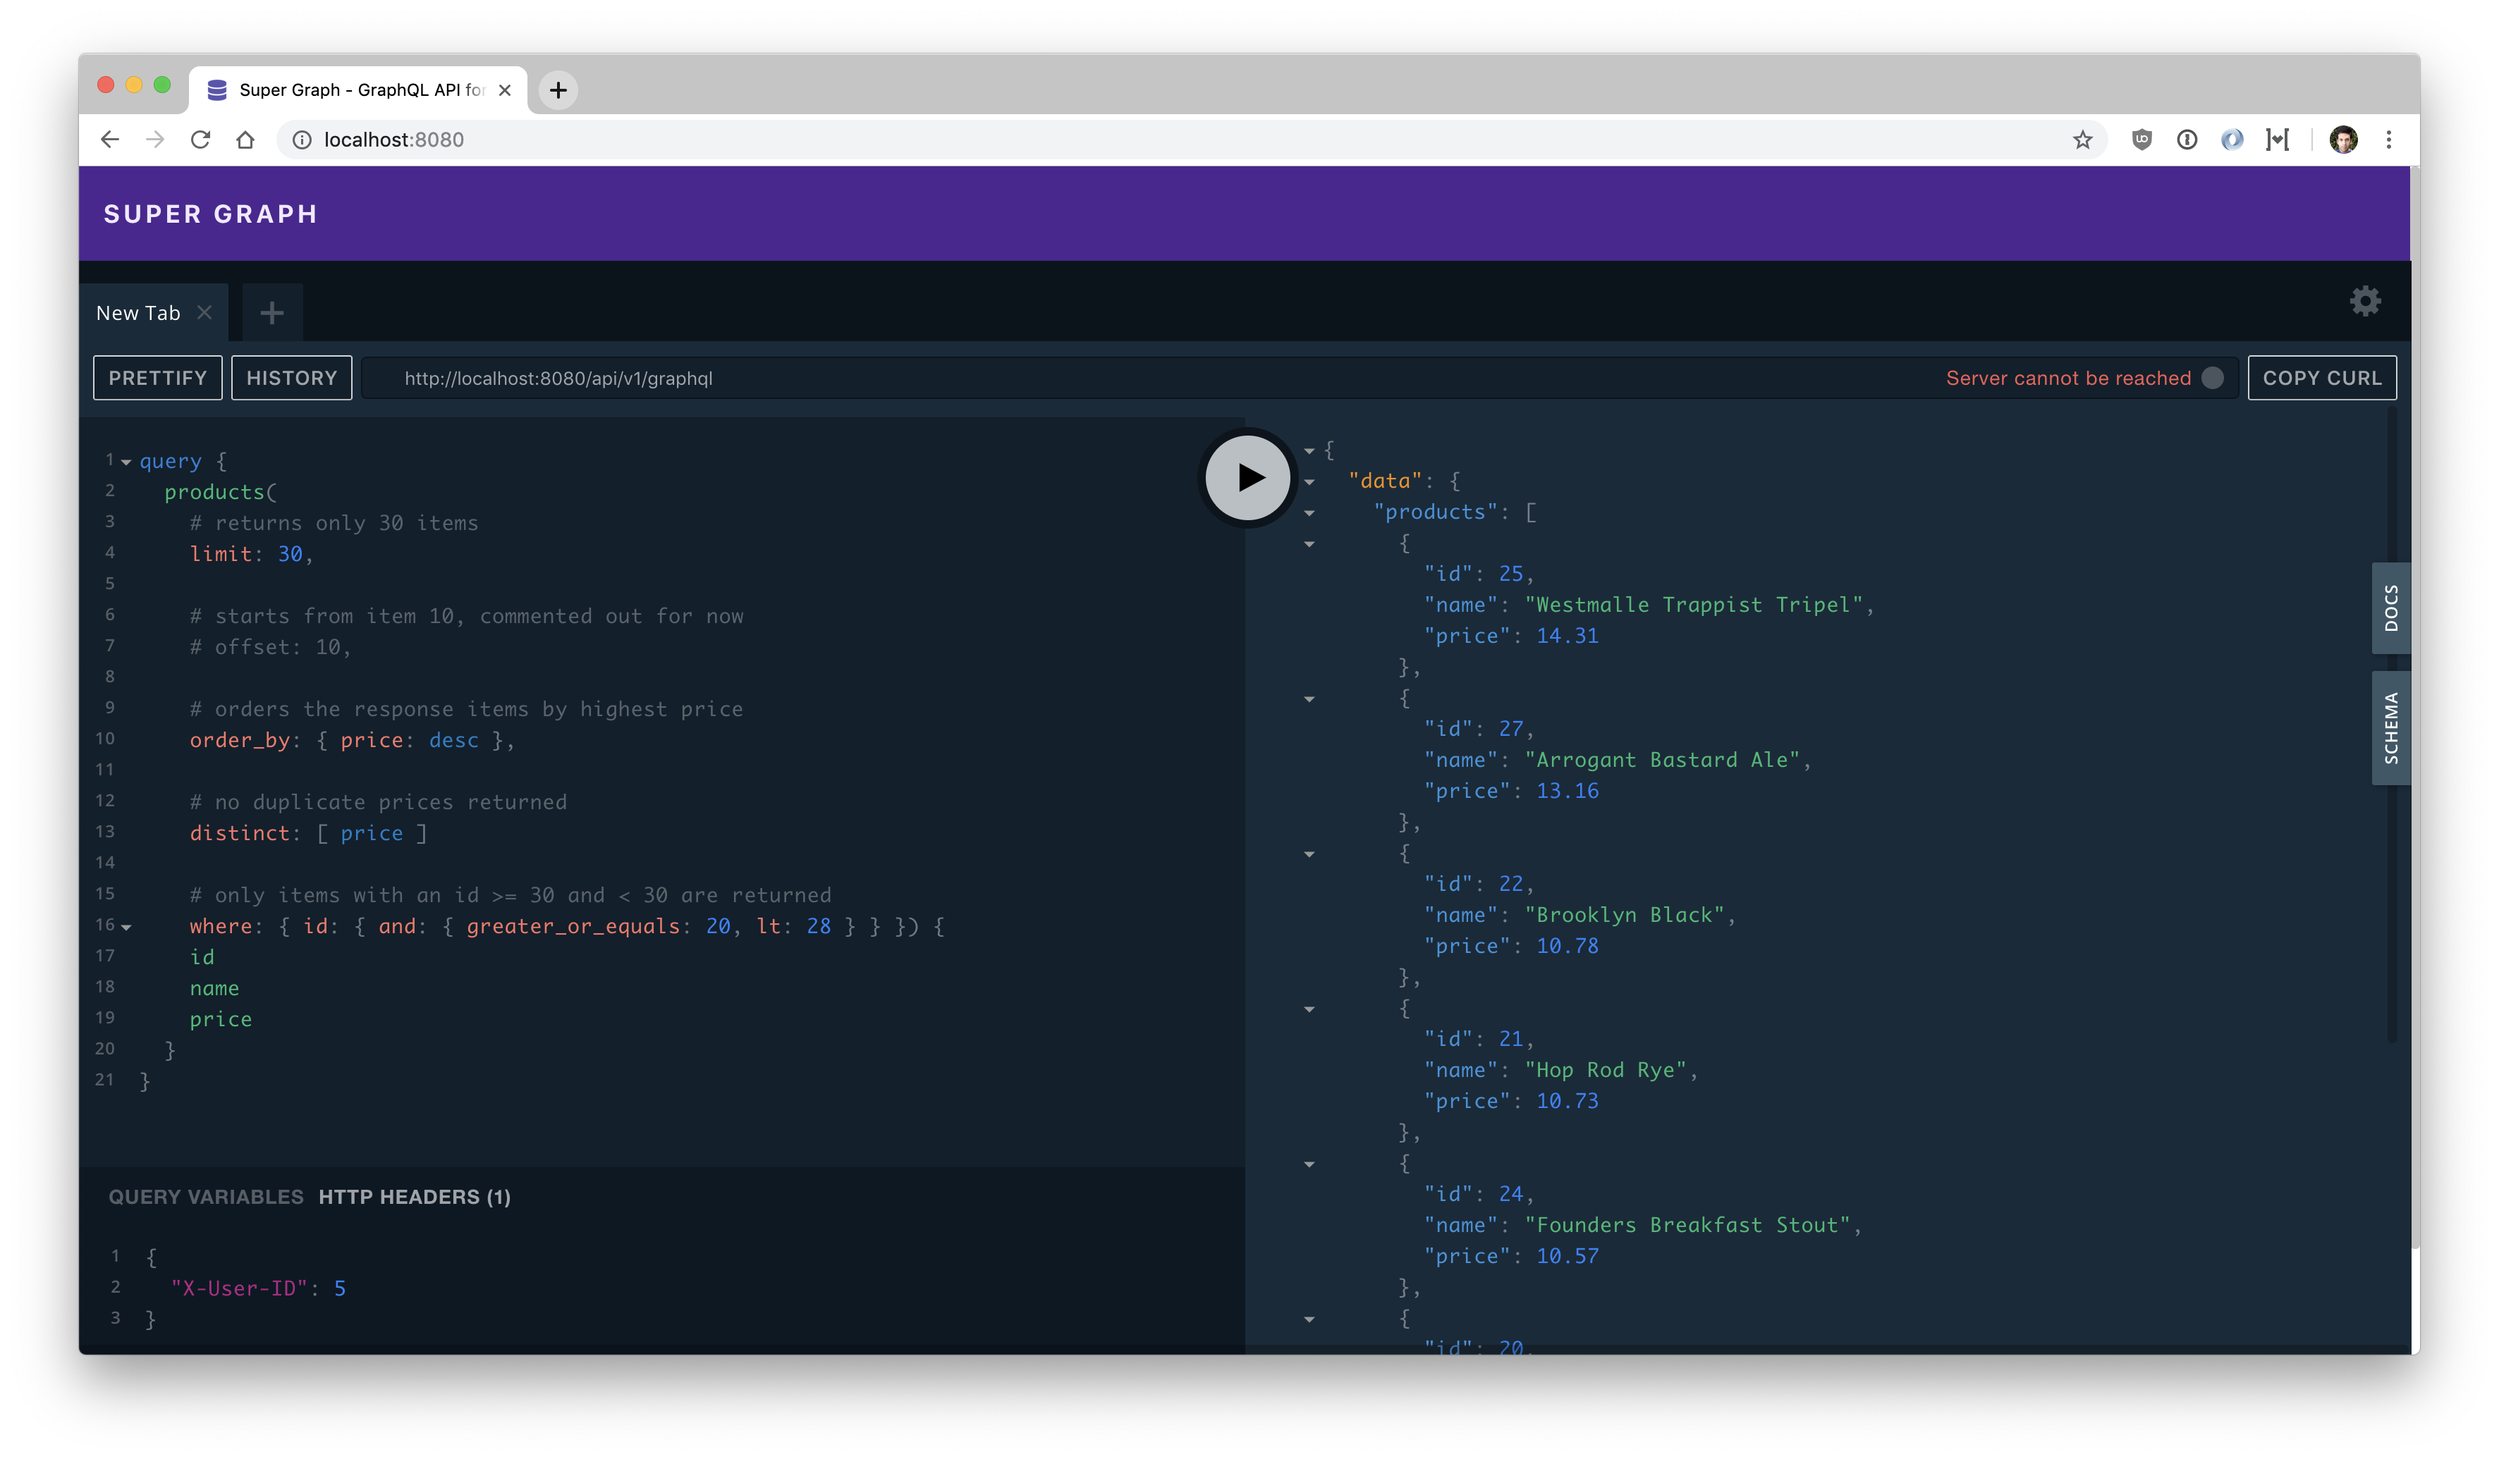
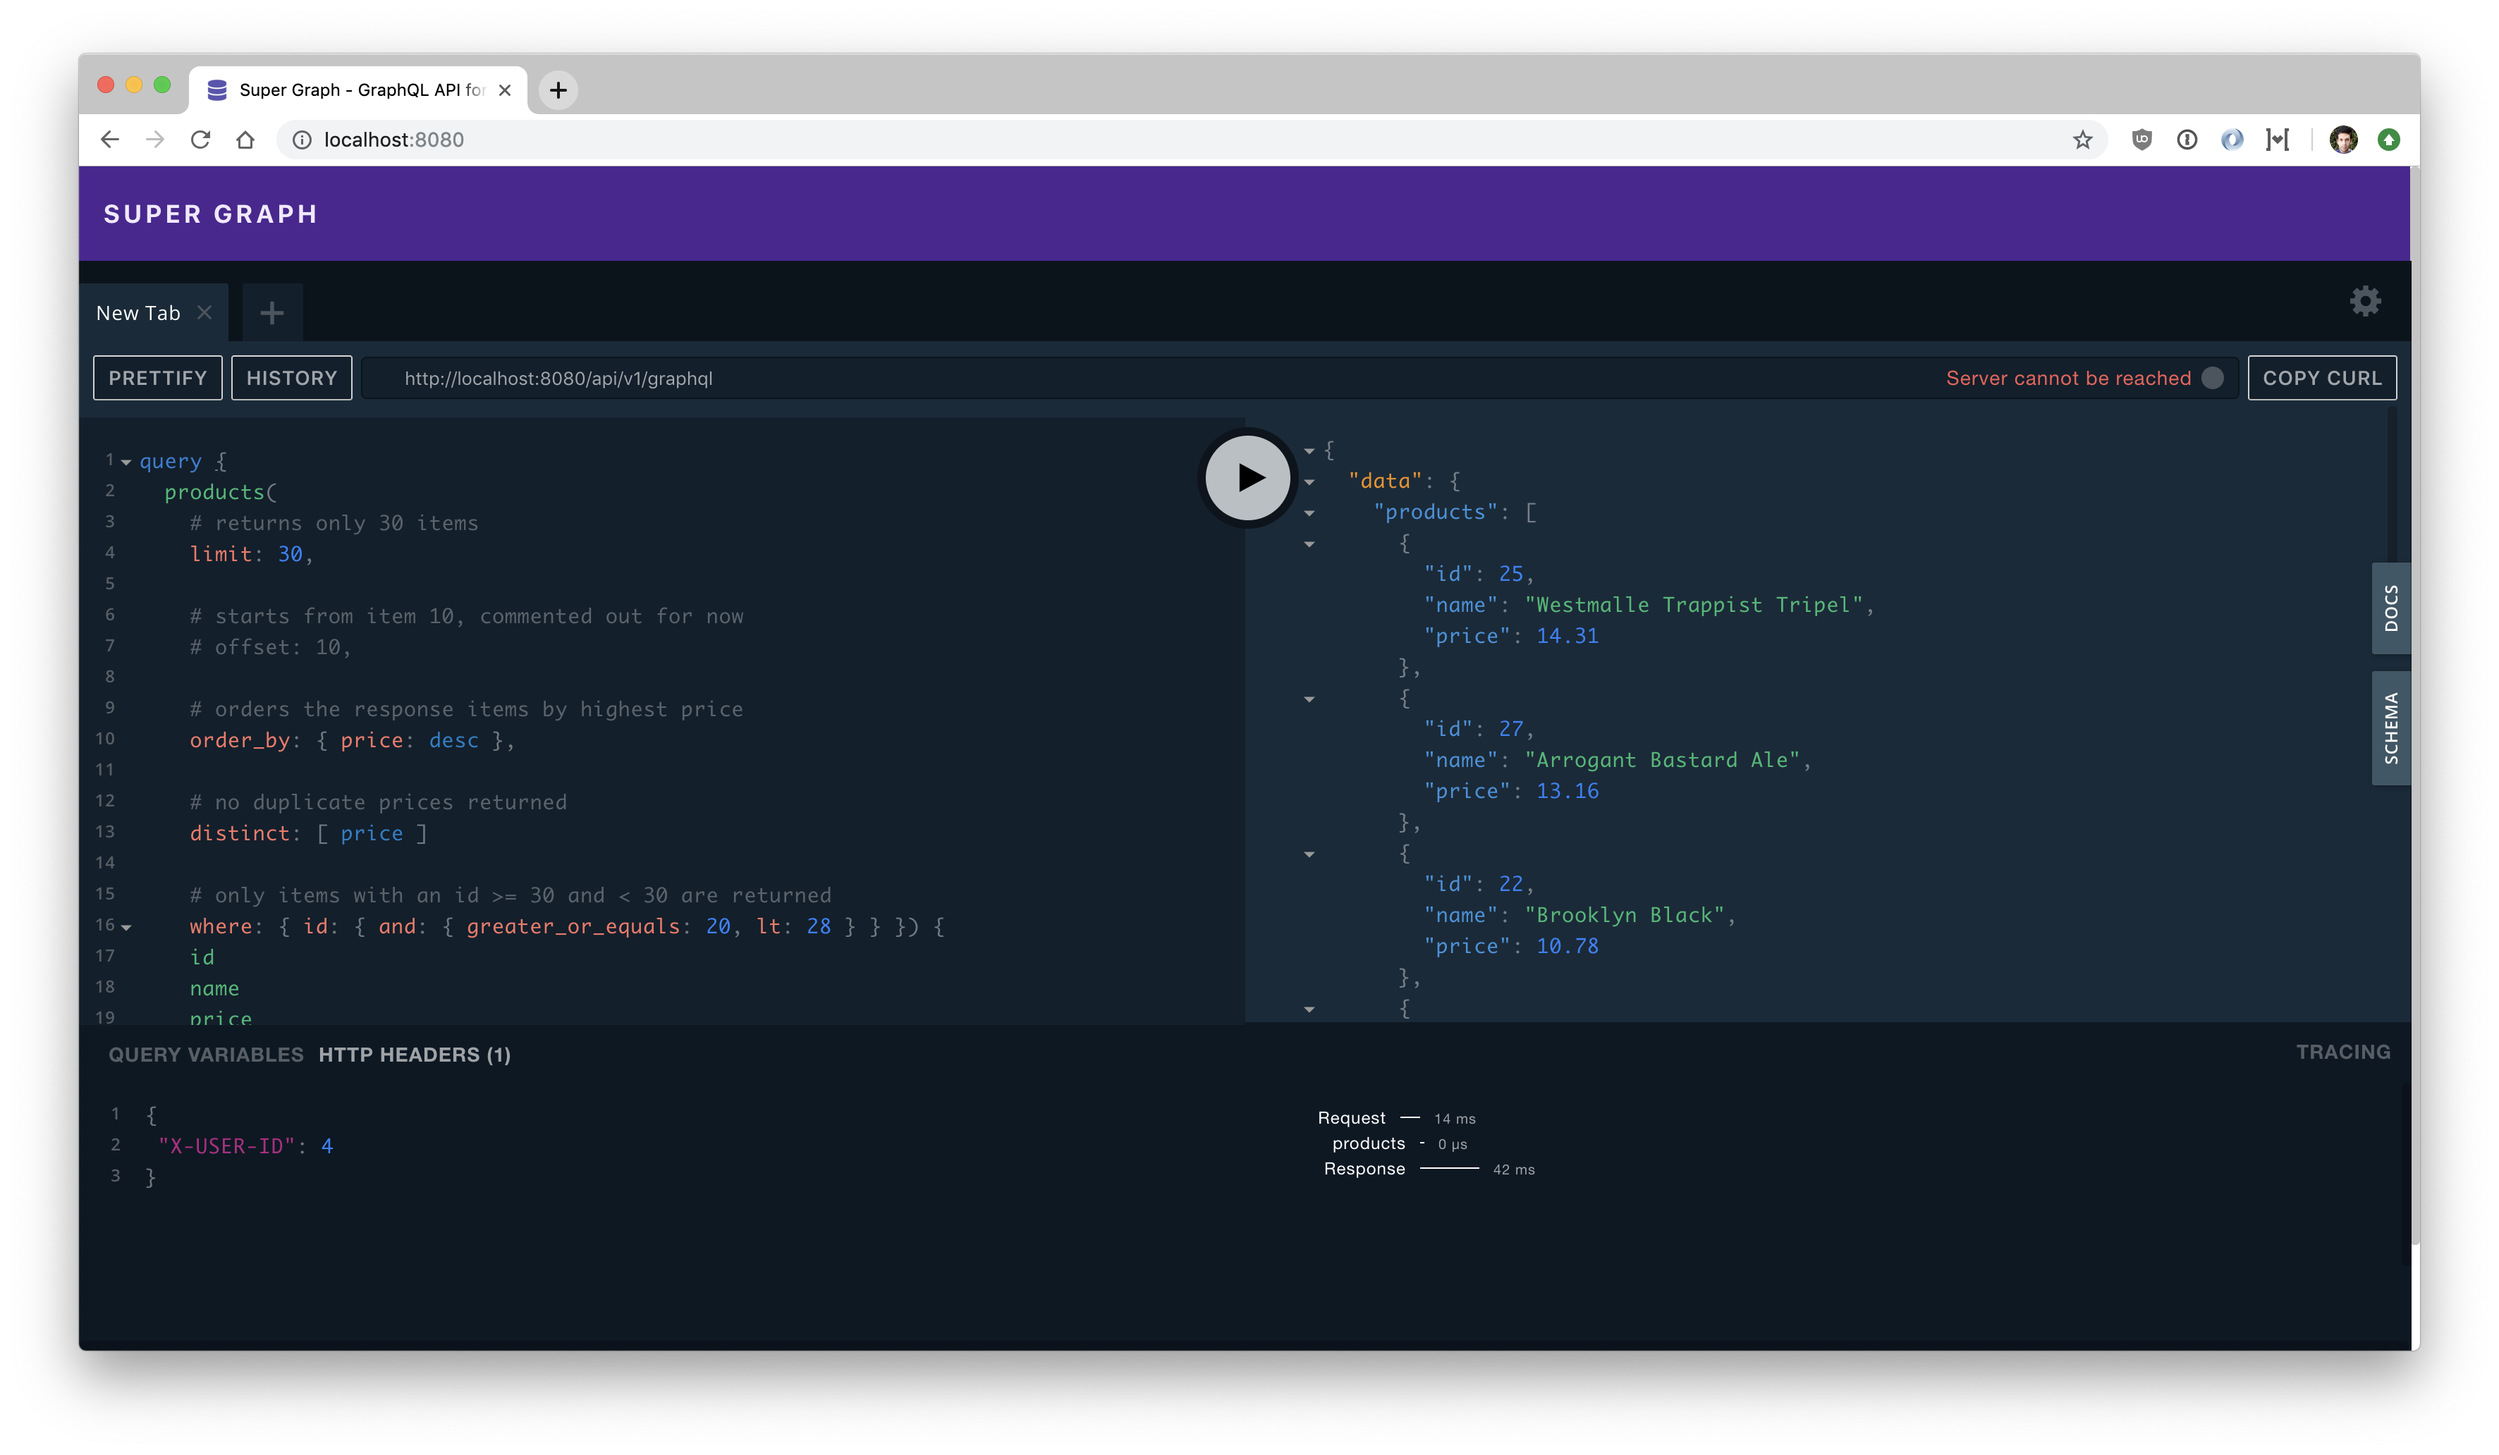
Add SQL execution timing and tracing

diff --git a/graphjin/serv/http.go b/graphjin/serv/http.go
@@ -9,7 +9,9 @@ import (
 	"io/ioutil"
 	"net/http"
 	"strings"
+	"time"
 
+	"github.com/dosco/super-graph/qcode"
 	"github.com/go-pg/pg"
 	"github.com/gorilla/websocket"
 	"github.com/valyala/fasttemplate"
@@ -33,8 +35,34 @@ type gqlReq struct {
 }
 
 type gqlResp struct {
-	Error string          `json:"error,omitempty"`
-	Data  json.RawMessage `json:"data,omitempty"`
+	Error      string          `json:"error,omitempty"`
+	Data       json.RawMessage `json:"data,omitempty"`
+	Extensions extensions      `json:"extensions"`
+}
+
+type extensions struct {
+	Tracing *trace `json:"tracing"`
+}
+
+type trace struct {
+	Version   int           `json:"version"`
+	StartTime time.Time     `json:"startTime"`
+	EndTime   time.Time     `json:"endTime"`
+	Duration  time.Duration `json:"duration"`
+	Execution execution     `json:"execution"`
+}
+
+type execution struct {
+	Resolvers []resolver `json:"resolvers"`
+}
+
+type resolver struct {
+	Path        []string      `json:"path"`
+	ParentType  string        `json:"parentType"`
+	FieldName   string        `json:"fieldName"`
+	ReturnType  string        `json:"returnType"`
+	StartOffset int           `json:"startOffset"`
+	Duration    time.Duration `json:"duration"`
 }
 
 func apiv1Http(w http.ResponseWriter, r *http.Request) {
@@ -99,6 +127,7 @@ func apiv1Http(w http.ResponseWriter, r *http.Request) {
 	if debug > 0 {
 		fmt.Println(finalSQL)
 	}
+	st := time.Now()
 
 	var root json.RawMessage
 	_, err = db.Query(pg.Scan(&root), finalSQL)
@@ -108,7 +137,15 @@ func apiv1Http(w http.ResponseWriter, r *http.Request) {
 		return
 	}
 
-	json.NewEncoder(w).Encode(gqlResp{Data: json.RawMessage(root)})
+	et := time.Now()
+	resp := gqlResp{}
+
+	if tracing {
+		resp.Extensions = extensions{newTrace(st, et, qc)}
+	}
+
+	resp.Data = json.RawMessage(root)
+	json.NewEncoder(w).Encode(resp)
 }
 
 /*
@@ -173,4 +210,29 @@ func varValues(ctx context.Context) map[string]interface{} {
 		"USER_ID_PROVIDER": uidpFn,
 		"user_id_provider": uidpFn,
 	}
+}
+
+func newTrace(st, et time.Time, qc *qcode.QCode) *trace {
+	du := et.Sub(et)
+
+	t := &trace{
+		Version:   1,
+		StartTime: st,
+		EndTime:   et,
+		Duration:  du,
+		Execution: execution{
+			[]resolver{
+				resolver{
+					Path:        []string{qc.Query.Select.Table},
+					ParentType:  "Query",
+					FieldName:   qc.Query.Select.Table,
+					ReturnType:  "object",
+					StartOffset: 1,
+					Duration:    du,
+				},
+			},
+		},
+	}
+
+	return t
 }

diff --git a/graphjin/serv/serv.go b/graphjin/serv/serv.go
@@ -32,6 +32,7 @@ var (
 	pcompile      *psql.Compiler
 	qcompile      *qcode.Compiler
 	authFailBlock int
+	tracing       bool
 )
 
 func initLog() {
@@ -74,6 +75,7 @@ func initConf() {
 	conf.SetDefault("host_port", "0.0.0.0:8080")
 	conf.SetDefault("web_ui", false)
 	conf.SetDefault("debug_level", 0)
+	conf.SetDefault("enable_tracing", false)
 
 	conf.SetDefault("database.type", "postgres")
 	conf.SetDefault("database.host", "localhost")
@@ -83,6 +85,8 @@ func initConf() {
 
 	conf.SetDefault("env", "development")
 	conf.BindEnv("env", "GO_ENV")
+
+	tracing = conf.GetBool("enable_tracing")
 
 	switch conf.GetString("auth_fail_block") {
 	case "always":

diff --git a/graphjin/README.md b/graphjin/README.md
@@ -227,6 +227,7 @@ Configuration files can either be in YAML or JSON their names are derived from t
 host_port: 0.0.0.0:8080
 web_ui: true
 debug_level: 1
+enable_tracing: true
 
 # When to throw a 401 on auth failure 
 # valid values: always, per_query, never
